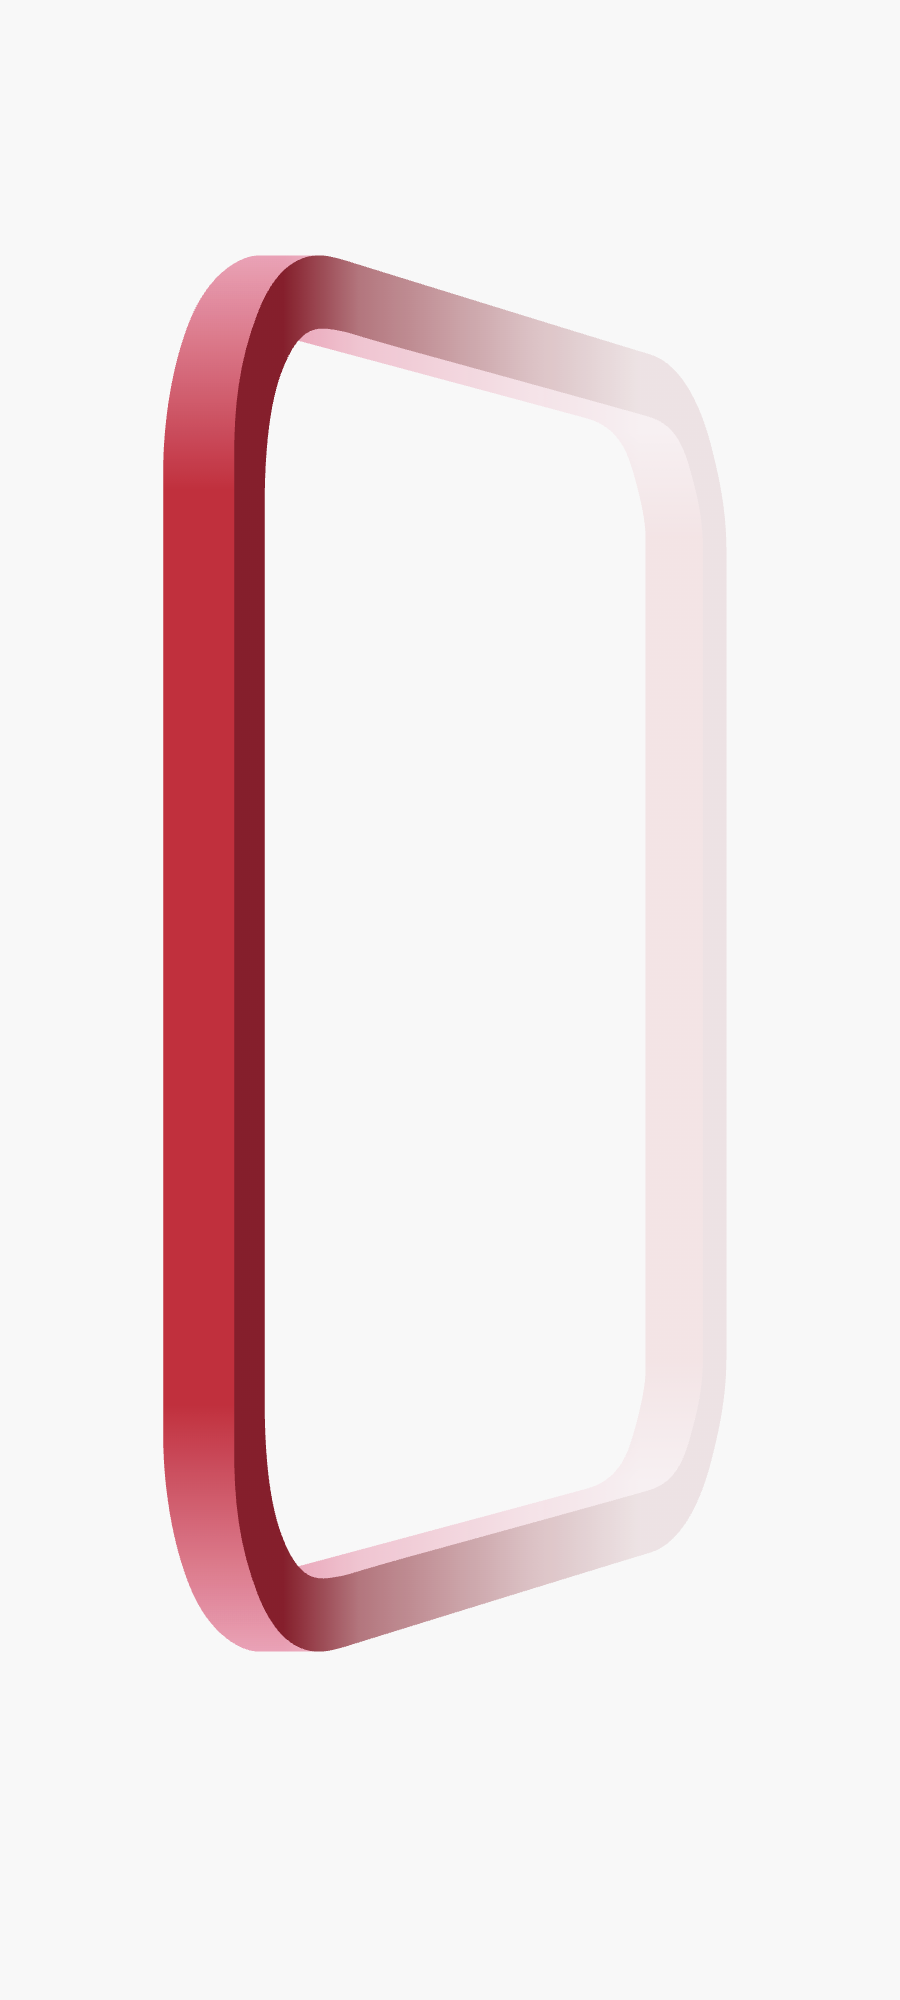
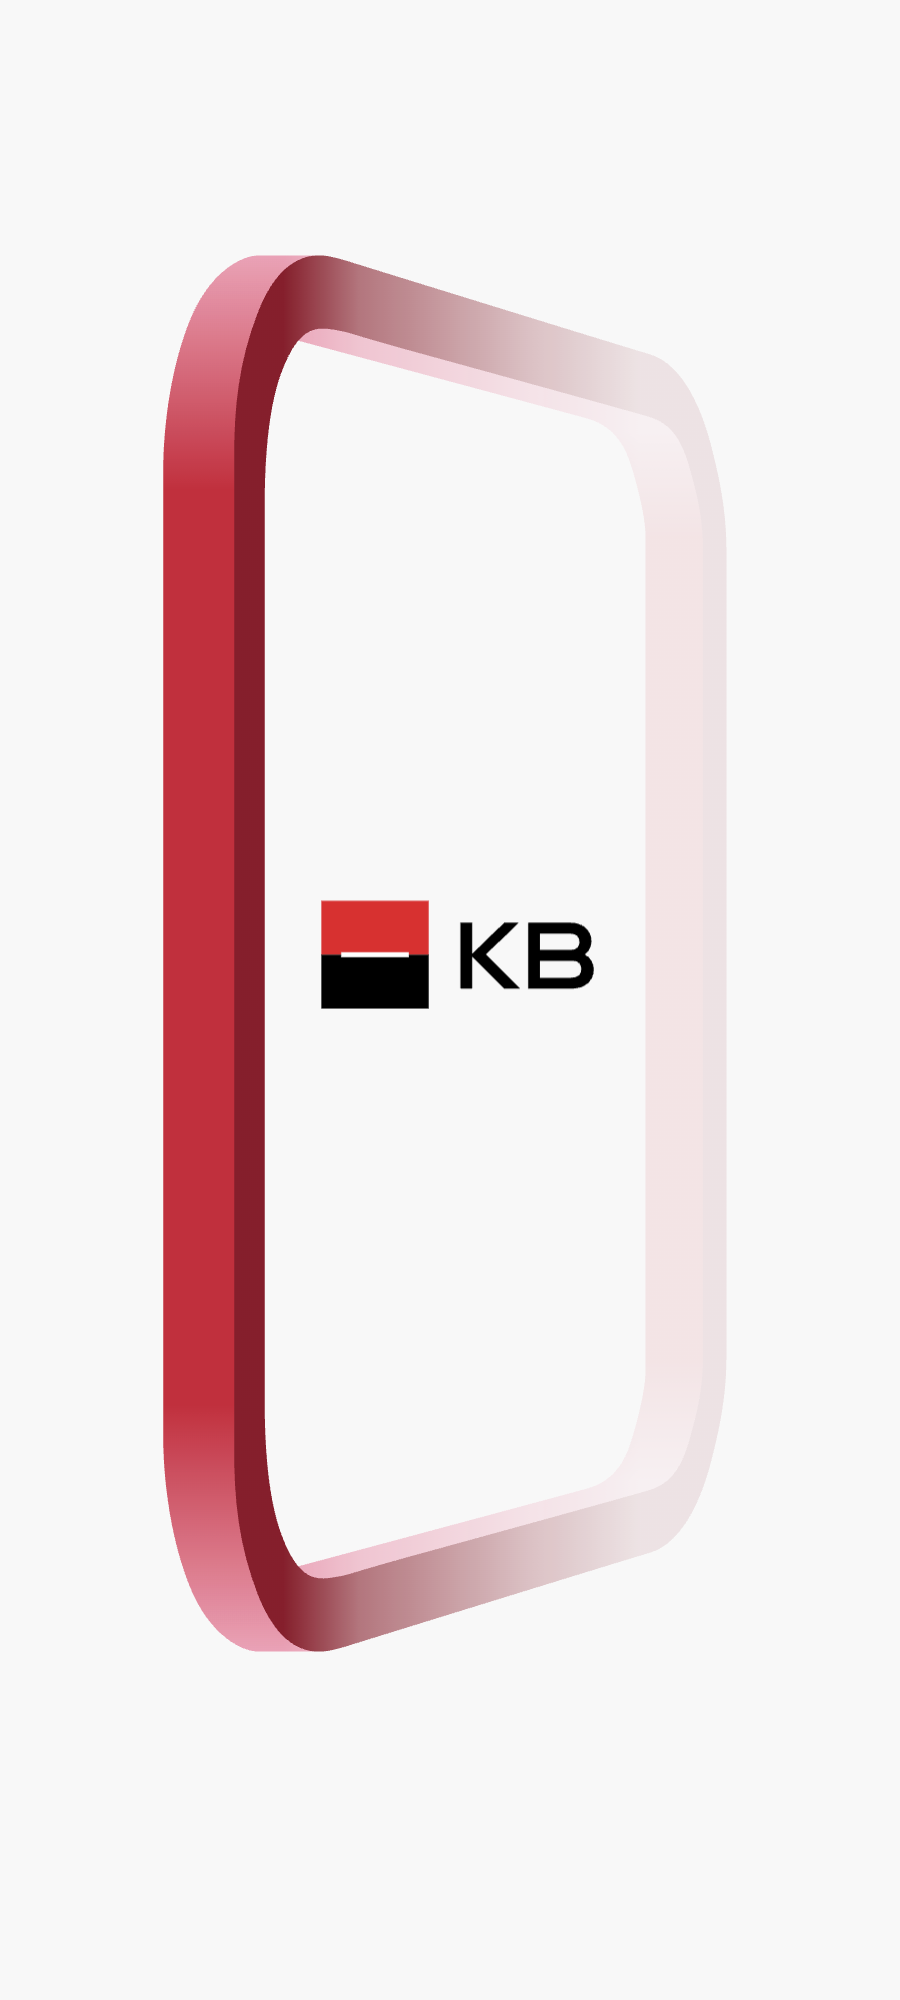
fix: use single cropped KB login artwork

Changed region(s): [[0.3422, 0.434, 0.6844, 0.527]]

diff --git a/Platby/VAVU/index.html b/Platby/VAVU/index.html
@@ -359,7 +359,6 @@
       display: flex;
       align-items: center;
       justify-content: center;
-      position: relative;
     }
 
     .login-illustration {
@@ -413,16 +412,6 @@
       margin-left: auto;
       width: 8px;
       height: 16px;
-    }
-
-    .login-logo {
-      display: block;
-      width: 160px;
-      height: auto;
-      position: absolute;
-      left: 50%;
-      top: 50%;
-      transform: translate(-50%, -50%);
     }
 
     .login-heading {
@@ -2159,10 +2148,6 @@
         margin-top: 24px;
       }
 
-      .login-logo {
-        width: 120px;
-      }
-
       .login-links {
         margin-top: 24px;
       }
@@ -2450,8 +2435,7 @@
       <!-- ================= SCREEN 0: PŘIHLÁŠENÍ ================= -->
       <div class="screen login-screen" id="screen-login">
         <div class="login-visual" aria-hidden="true">
-          <img class="login-illustration" src="assets/login-illustration.png?v=2" alt="">
-          <img class="login-logo" src="assets/kb-logo.png?v=2" alt="">
+          <img class="login-illustration" src="assets/login-illustration.png?v=3" alt="">
         </div>
         <section class="login-panel" aria-labelledby="login-heading">
           <a class="login-language" href="#login">English</a>
